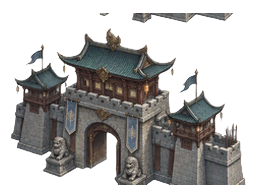
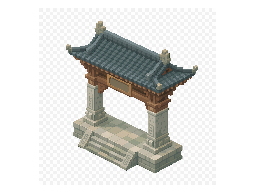
v2.6.1 逆尘：建筑 gate / inn 接入（并修掉"烘进汉字"的出图问题）
一、建筑 7/20 接入
- struct.gate 山门牌楼（石基座 + 双石柱 + 木梁门楼，匾额位置留空）
- struct.inn 客栈两层楼（木栏杆走廊 + 檐口 + 格子窗 + 石阶）
- 两者都登入 art.js: A.ISO_NATIVE，并把键加进 assets-build.py: PIXEL_KEYS。

二、⚠ 修掉一个出图纪律问题：AI 把汉字烘进了建筑图
- inn 第一次出图带上了"仙侠客栈""酒""客"等汉字。
- 本项目纪律：**建筑名一律矢量叠加**（explore.js: _drawPlaque），**绝不烘进素材图**
  （HANDOVER §5 已记）。烘进去的后果：
  ① 与矢量匾额**双重显示**；② 一张图被锁死成一个名字，无法复用。
- 修法：出图提示词显式加 ——
  "画面中不要出现任何文字、汉字、匾额、招牌或对联，所有牌匾位置一律留空为素面木板"。
  重出后牌匾为素木板，正确。

三、范围核对（吸取 v2.6.0 的教训）
git status 核对为**仅 struct.gate / struct.inn 两张**（+ HANDOVER/脚本），
未误伤其它 struct（前缀改键表后不再连带重采样）。

四、回归
smoke / playthrough / rebirth / dungeon-run / secret-test / zone-curve 全过。

五、待办
- 建筑剩余 13 张（hall/ruin/temple/tower 等）→ 行走精灵 33 → 立绘 48。
- deepkey 单张耗时 149~2551 秒且偶发 fetch failed，按小批推进。

diff --git a/www/js/core/art.js b/www/js/core/art.js
@@ -1256,7 +1256,9 @@
     'struct.shop': 1,
     'struct.smithy': 1,
     'struct.alchemy': 1,
-    /* ⏳ 仍是旧正视素材（未重出）：gate / inn / hall / ruin / temple / tower
+    'struct.gate': 1,
+    'struct.inn': 1,
+    /* ⏳ 仍是旧正视素材（未重出）：hall / ruin / temple / tower
        —— 它们**不在**表里，`_drawStructure` 仍会给它们补代码侧面。 */
   };
   A.isIsoNative = function (key) { return !!A.ISO_NATIVE[key]; };

diff --git a/tools/assets-build.py b/tools/assets-build.py
@@ -389,6 +389,7 @@ PIXEL_KEYS = set([
     'ground.town', 'ground.grass', 'ground.cave', 'ground.bloodcave',
     # 建筑（v2.6.0 起逐张重出；**换一张就加一行**）
     'struct.house', 'struct.apothecary', 'struct.shop', 'struct.smithy', 'struct.alchemy',
+    'struct.gate', 'struct.inn',
 ])
 
 
